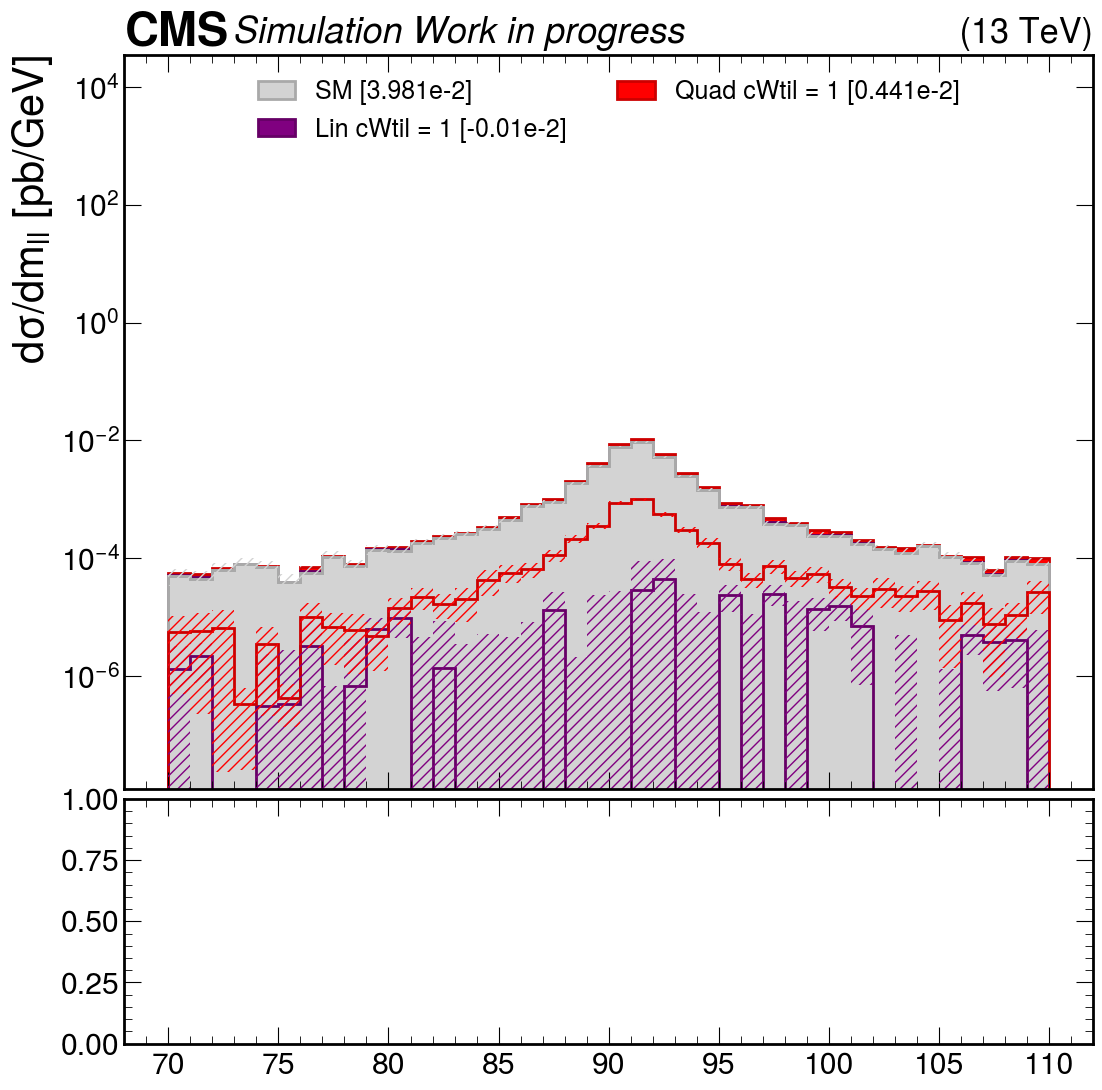
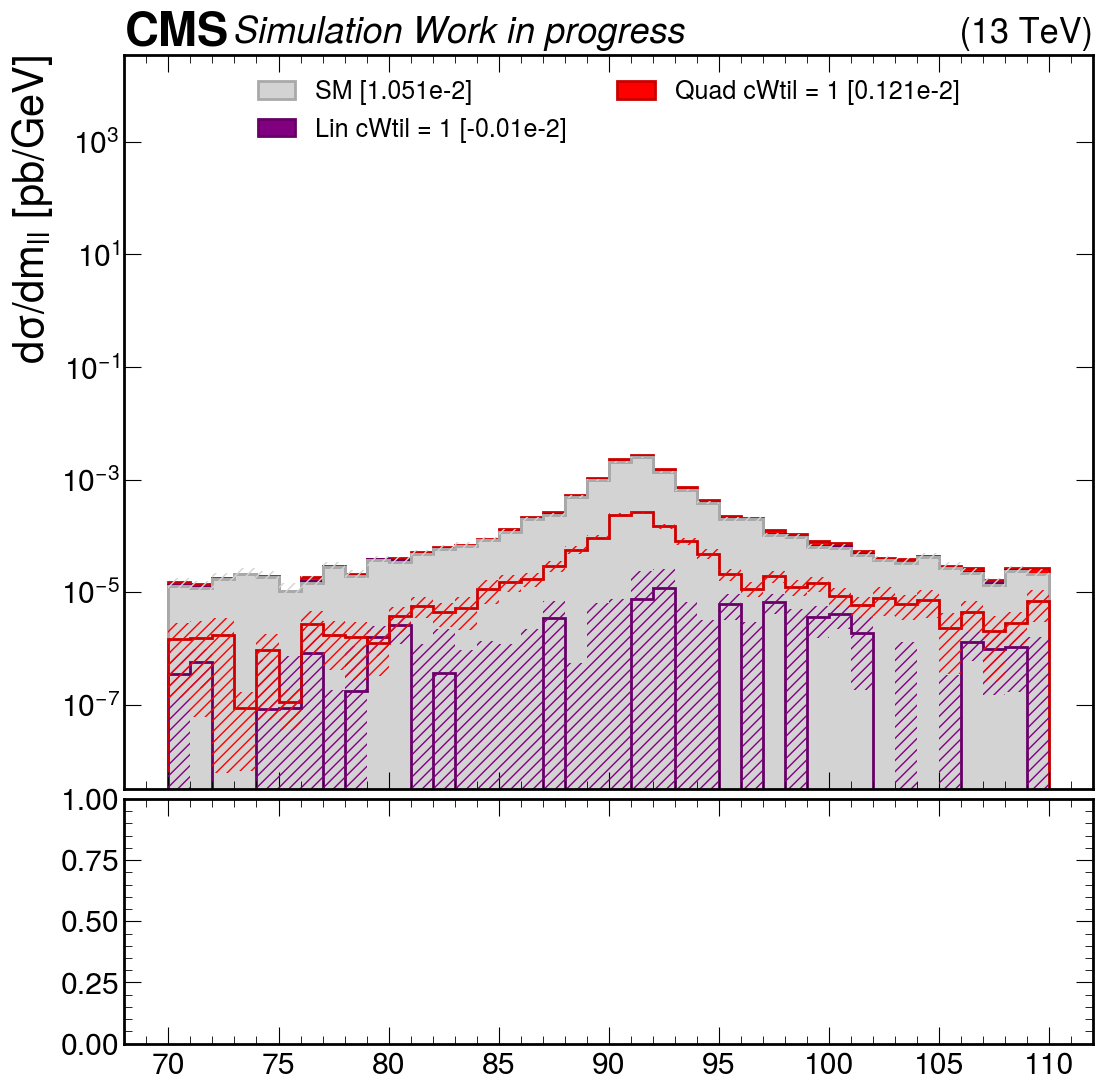
cambio

diff --git a/reader.py b/reader.py
@@ -125,7 +125,7 @@ for index in range(len(fis)):
     xs = pylhe.read_lhe_init(fi)['procInfo'][0]['xSection']
     weight_names = ['rwgt_' + str(i) for i in range(1, 46)]
     arr = pylhe.to_awkward(pylhe.read_lhe_with_attributes(fi) , weight_names)
-    nom_weights = (arr.eventinfo.weight * xs * 1000/ ak.sum(arr.eventinfo.weight))
+    nom_weights = (arr.eventinfo.weight * xs * 1000)
     tot_nom_weights += ak.sum(nom_weights)
 
 #crea istogrammi in modo automatizzato
